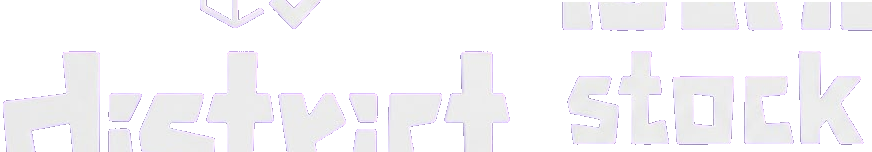
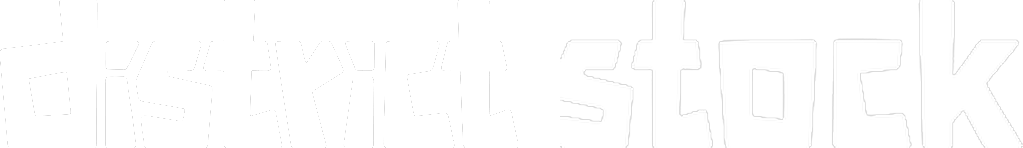
fix(splash): clean wordmark artifacts and align district stock single line text

diff --git a/src/screens/SplashScreen.js b/src/screens/SplashScreen.js
@@ -170,16 +170,16 @@ const styles = StyleSheet.create({
     marginTop: 48,
   },
   exactSingleLineWordmark: {
-    width: width * 0.84,
-    height: 52,
-    marginBottom: 6,
+    width: width * 0.82,
+    height: 48,
+    marginBottom: 4,
   },
   headerSubtitle: {
-    fontSize: 14,
+    fontSize: 13,
     fontWeight: '600',
     color: COLORS.textLilac,
     letterSpacing: 0.8,
-    marginTop: 8,
+    marginTop: 6,
     textAlign: 'center',
   },
   centerGraphicContainer: {
